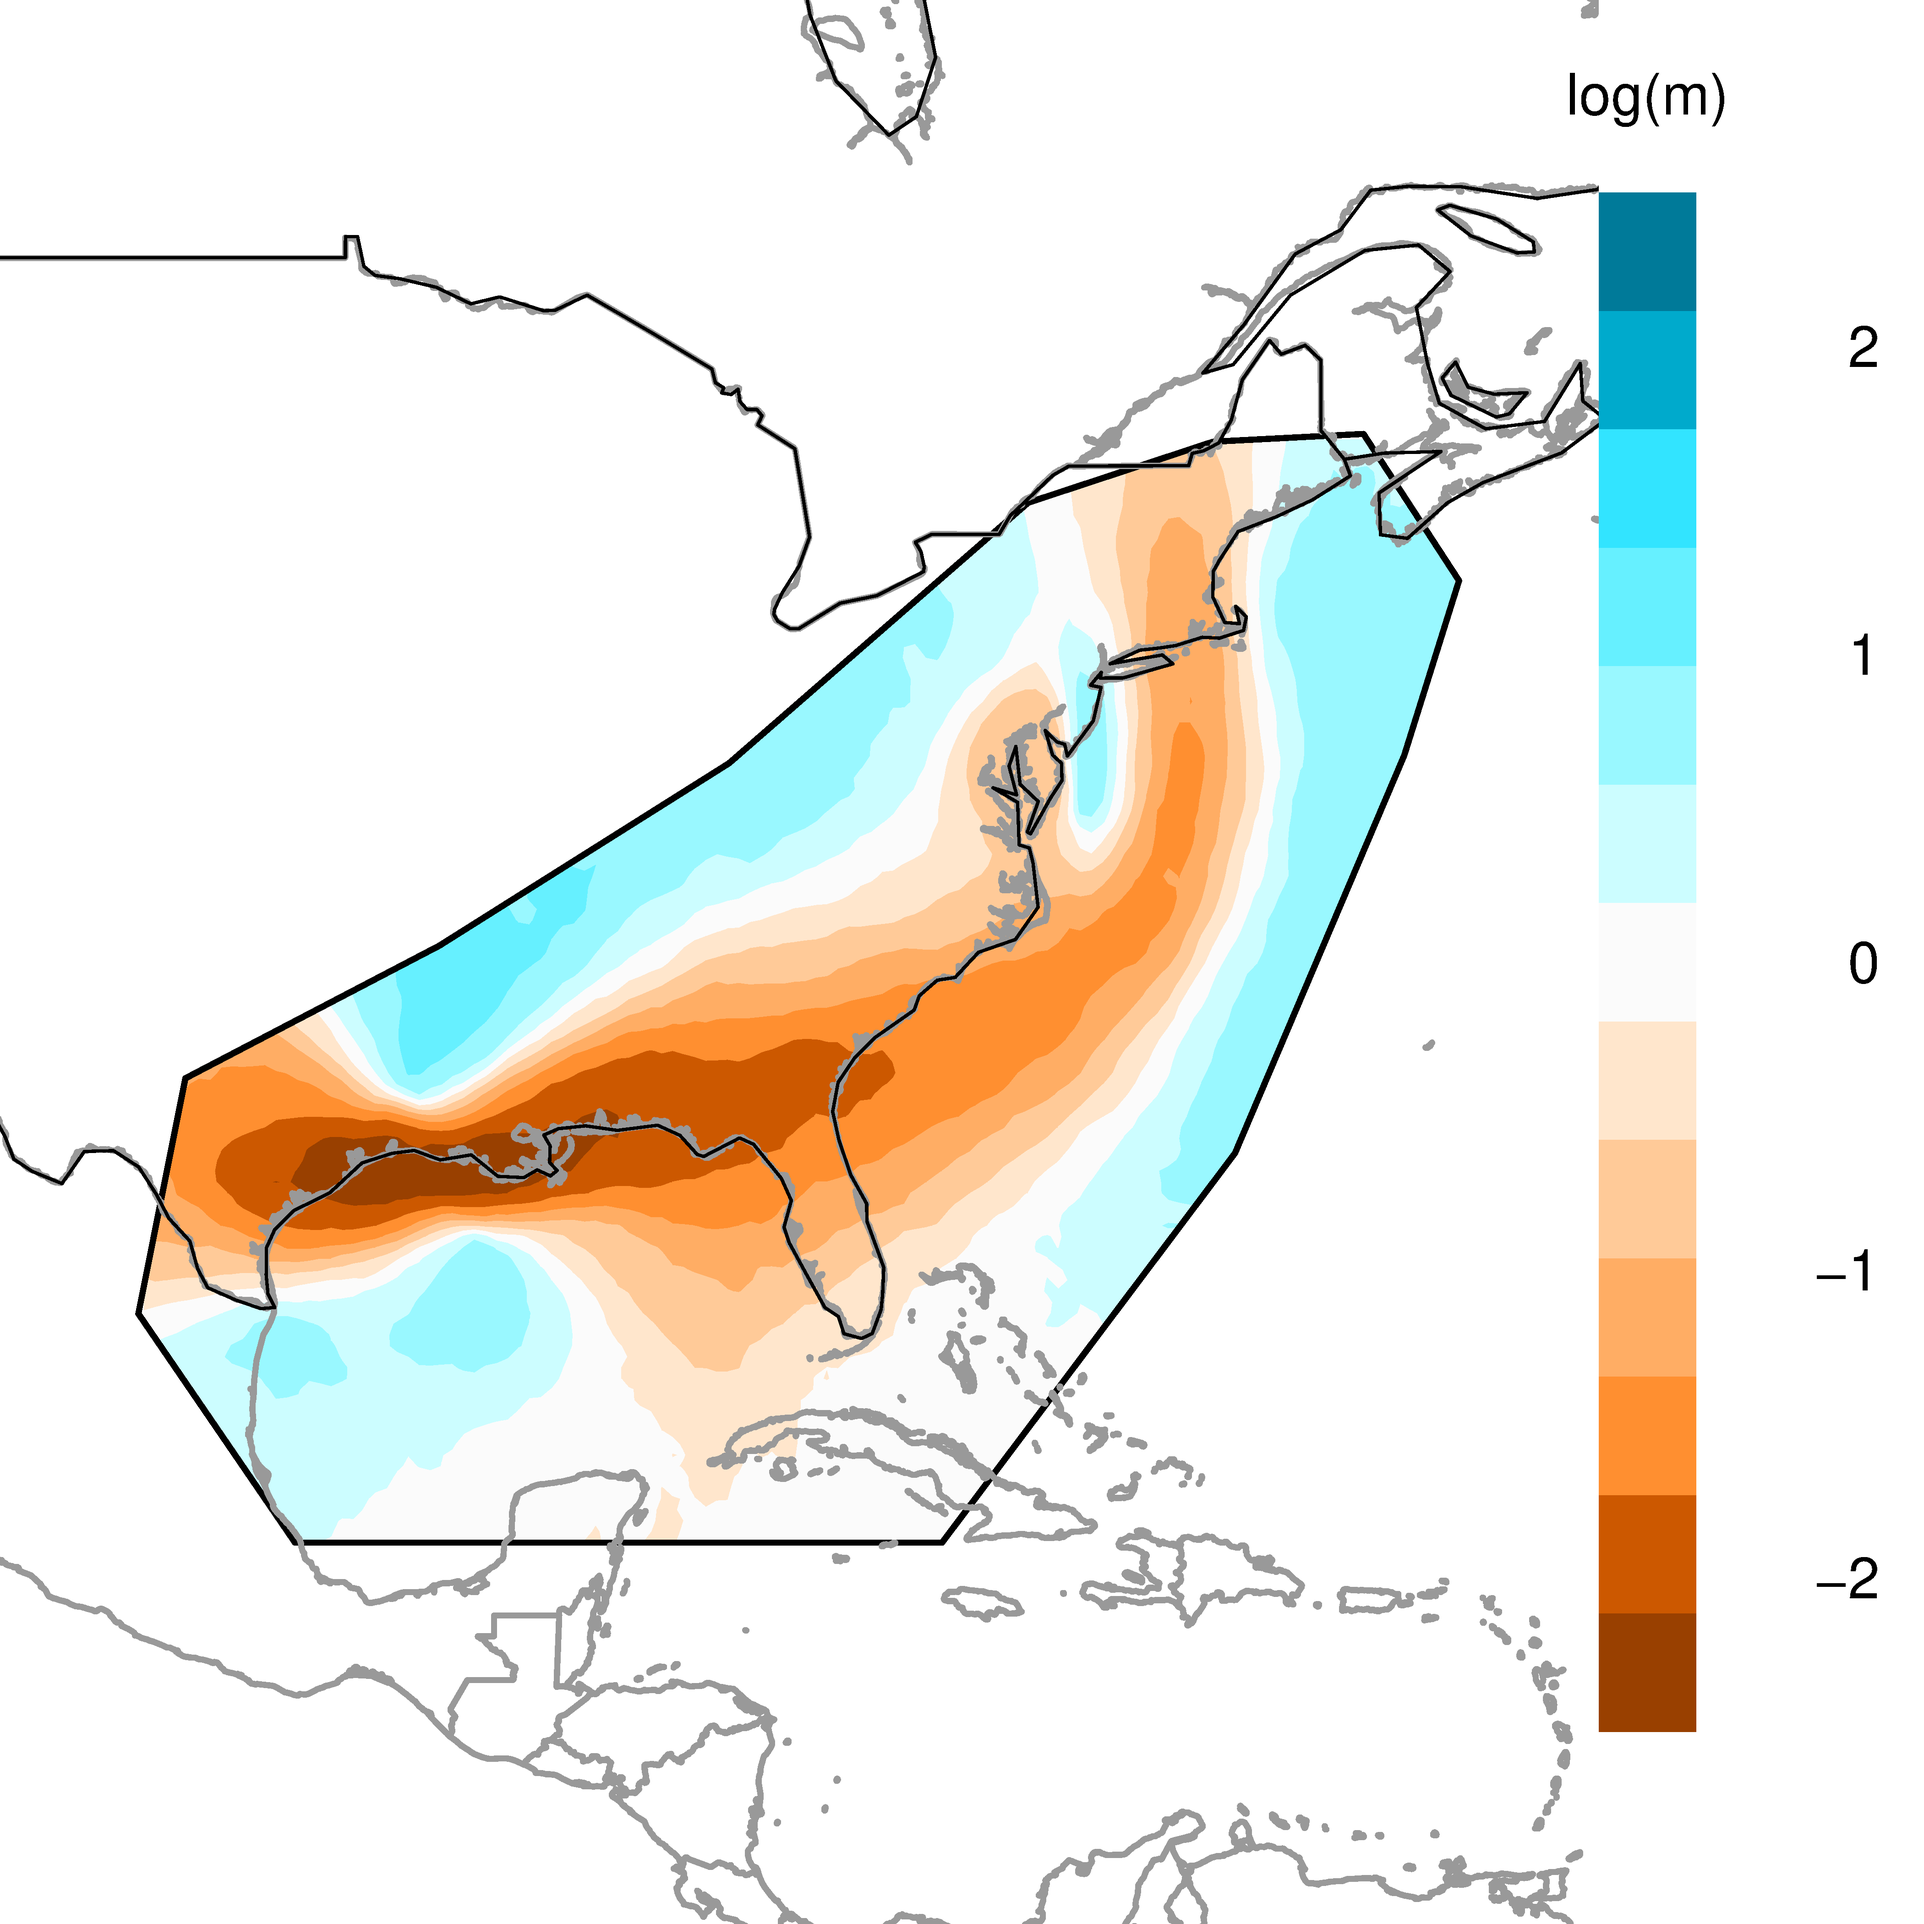
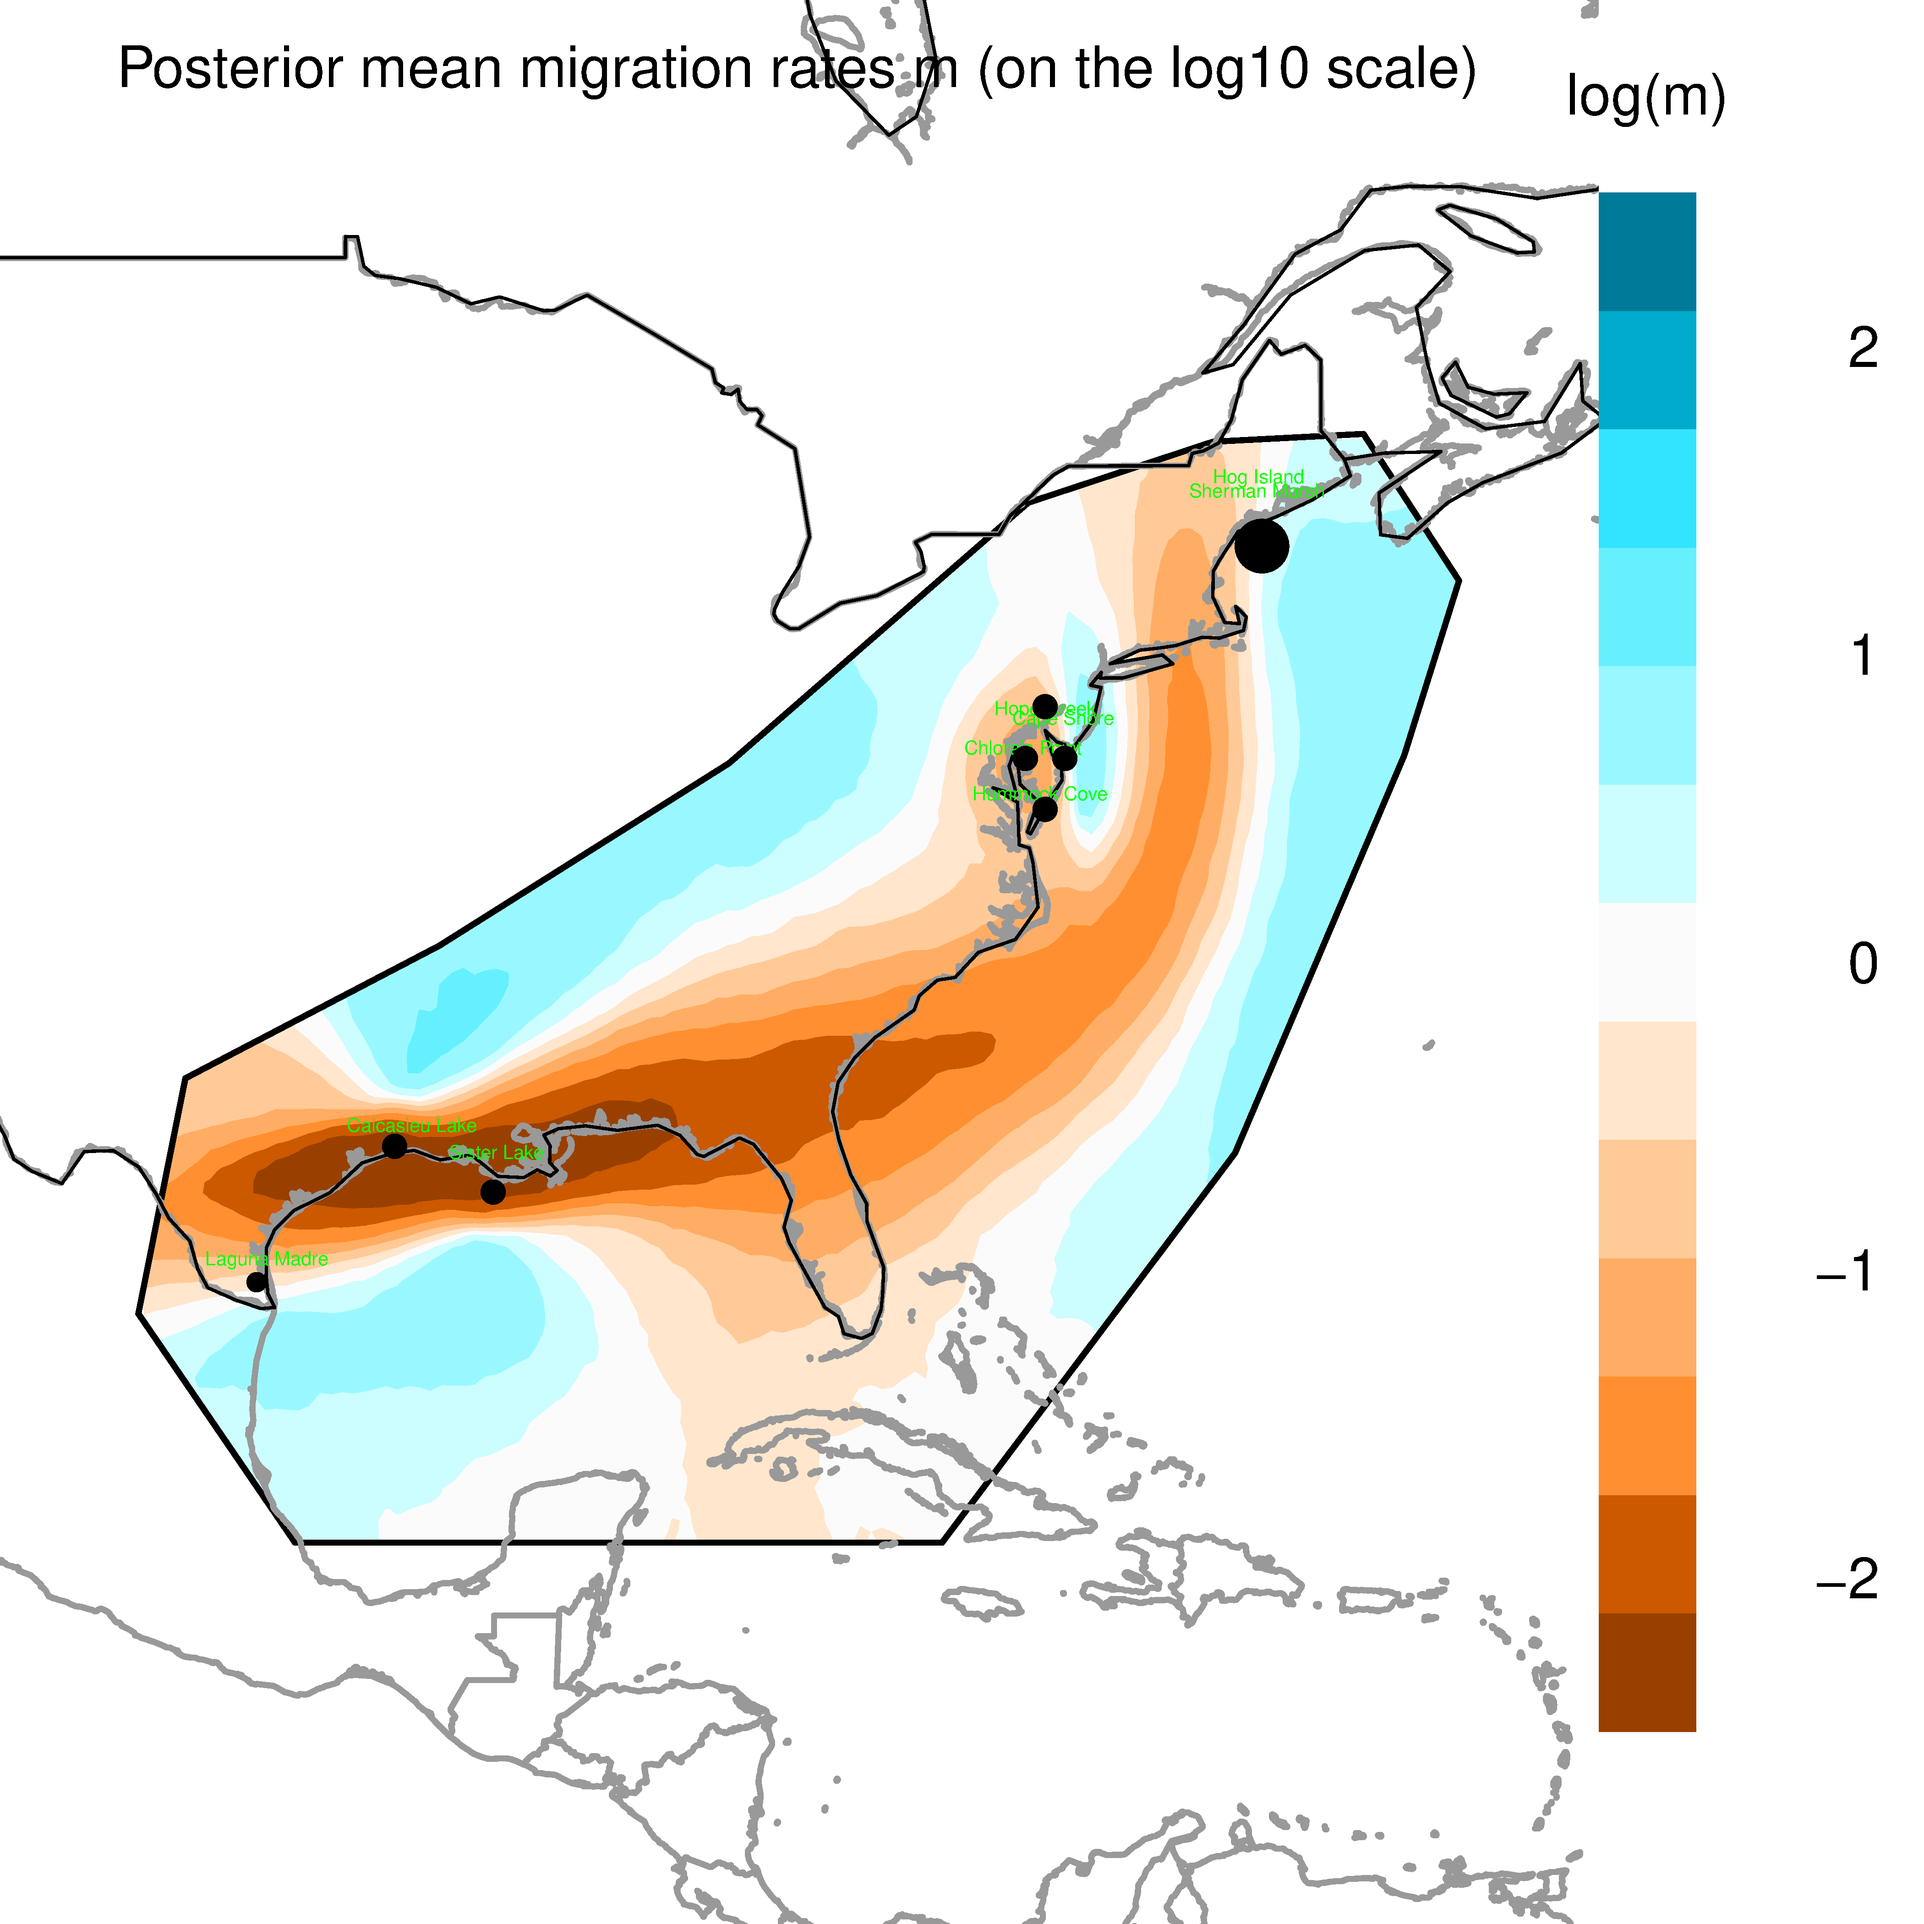
add documentation (notes and README)

diff --git a/popstructureOutliers/EEMS/README.md b/popstructureOutliers/EEMS/README.md
@@ -1,0 +1,38 @@
+# EEMS Analysis
+
+This directory contains the results and plots from [EEMS](https://github.com/dipetkov/eems) analysis done on a pruned set of 10 thousand SNPs and on a pruned set of 50 thousand snps. Results were about the same between the larger group and the smaller group of snps. 
+
+'src' contains the scripts used to format the data and produce the plots. 'modified_metadata_w_approx_coords.csv' is the metadata file with additional columns for 'ApproxLong' and 'ApproxLat'. These are the coordinates used in the analysis for the samples in the original metadata that did not have exact coordinates. I got them by searching the sample locations by name on google maps. In addition, in this metadata file all the latitudes and longitudes have been converted to decimal degrees.
+
+## Plots
+
+Plots are contained in subdirectories of '10KThinnedRandomSNPs13PCs' and '50KThinnedRandomSNPs13PCs'. EEMS requires habitat boundaries to be input along with the data and I tried two different versions of the boundaries. One where the boundary followed the coastline (10/50k_map-xxx.png) and one where the boundary is much larger and includes land (10k_include_land-xxx.png). I also tried two different versions of the larger, 'include_land', boundary, one where the number of demes in the habitat grid was set to 200 and one where the number of demes was increased to 500. 
+
+### Don't include land
+
+![10k-labels-mrates01.png](./10KThinnedRandomSNPs13PCs/plots/10k_map-mrates01.png)
+
+Circles are demes that the samples have been assigned to (more samples = bigger circle), the black line is the habitat boundary I input.
+
+![50k_map-mrates01.png](./50KThinnedRandomSNPs13PCs/plots/labels-mrates01.png)
+
+The version using 50k SNPs. The pattern is essentially the same. Labels are visible here to show which population corresponds with which deme.
+
+### Include land
+
+![10k_include_land-mrates01.png](./10KThinnedRandomSNPs13PCs/plots/10k_include_land-mrates01.png)
+
+The version of the plot with only 200 demes. Note that some of the populations that were separate above have been combined into the same deme in this larger, less precise map.
+
+![10k-labels_land_500_demes-mrates01.png](./10KThinnedRandomSNPs13PCs/plots/labels_land_500_demes-mrates01.png)
+
+The version of the plot with 500 demes. The populations are once again separate, the pattern is pretty similar though. This version took much longer to run. 
+
+
+There are many more plots in the plots directories, including plots of within deme diversity and diagnostic plots. The [EEMS documentation](https://github.com/dipetkov/eems/blob/master/Documentation/EEMS-doc.pdf) is a good guide in interpreting these plots.
+
+## Notes
+
+I kept notes while performing this analysis, provided here as a pdf. They are unpolished but pretty thorough. Hopefully they will help with any questions about why I used the hyperparameters I used or how the included scripts were used. They should be used in conjunction with the [EEMS documentation](https://github.com/dipetkov/eems/blob/master/Documentation/EEMS-doc.pdf) to reproduce the results, they will not provide all the details needed to use the EEMs program itself. 
+
+ 
